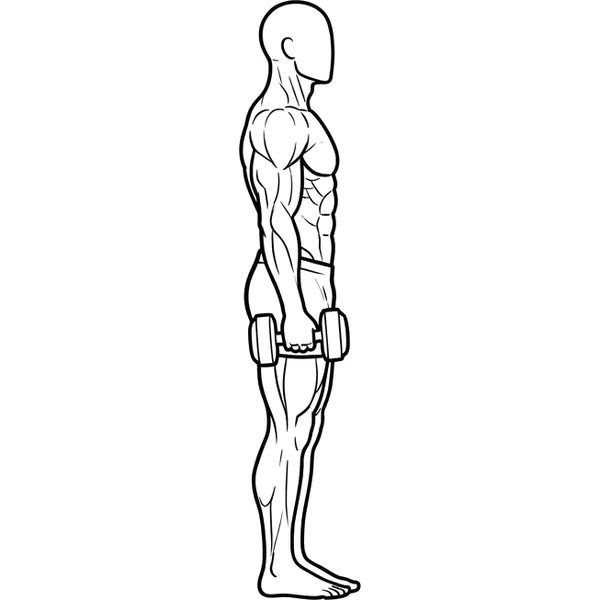
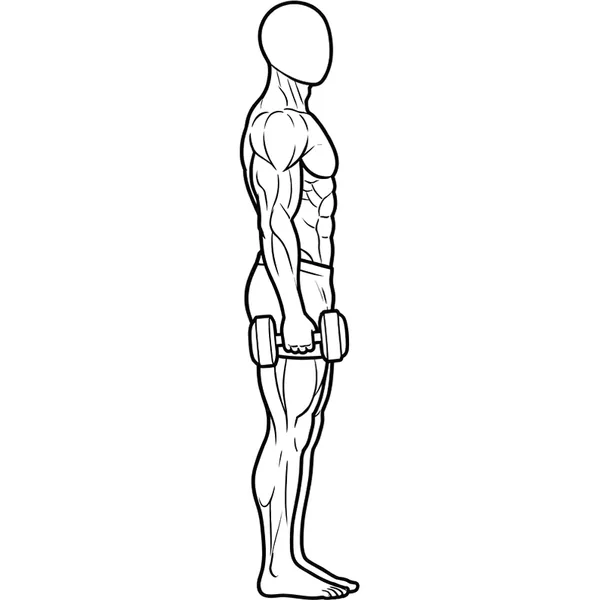
0.60.31: cara lisa en las dos zancadas (ChatGPT)

Changed region(s): [[0.39, 0.03, 0.6, 1.0], [0.48, 0.0, 0.54, 0.03]]

diff --git a/web/sw.js b/web/sw.js
@@ -7,12 +7,12 @@
 // Solo se ocupa del CÓDIGO de la app. Los datos del usuario nunca pasan por
 // aquí: viven en el dispositivo (IndexedDB) y en su Google Drive.
 
-const VERSION = '0.60.30';
+const VERSION = '0.60.31';
 const CACHE = `entreno-${VERSION}`;
 // Las imágenes van en un almacén aparte que NO se borra al actualizar la app:
 // así se ven sin conexión aunque haya salido una versión nueva.
 // Si cambian las imágenes, se sube el número y los móviles bajan las nuevas.
-const CACHE_IMAGENES = 'entreno-imagenes-38';  // el mismo nombre en app.js (guardarImagenesParaSinConexion)
+const CACHE_IMAGENES = 'entreno-imagenes-39';  // el mismo nombre en app.js (guardarImagenesParaSinConexion)
 
 const ARCHIVOS = [
   './',

diff --git a/web/js/app.js b/web/js/app.js
@@ -236,7 +236,7 @@ async function guardarImagenesParaSinConexion() {
     const capas = Object.entries(MUSCULOS).flatMap(([clave, m]) => m.vistas.map((v) => archivoCapa(clave, v)));
     const cuerpo = ['imagenes/musculos/cuerpo-delante.svg', 'imagenes/musculos/cuerpo-detras.svg'];
     // El mismo nombre que CACHE_IMAGENES en sw.js: si no, el service worker lo borra.
-    const cache = await caches.open('entreno-imagenes-38');
+    const cache = await caches.open('entreno-imagenes-39');
     for (const ruta of [...cuerpo, ...capas, ...mios]) {
       if (!(await cache.match(ruta, { ignoreSearch: true }))) {
         const r = await fetch(ruta).catch(() => null);

diff --git a/web/js/version.js b/web/js/version.js
@@ -1,3 +1,3 @@
 // Versión del código de la app. Se sube en cada publicación y debe coincidir
 // con VERSION en sw.js, que es lo que hace que los móviles se actualicen.
-export const VERSION_APP = '0.60.30';
+export const VERSION_APP = '0.60.31';

diff --git a/CLAUDE.md b/CLAUDE.md
@@ -1231,4 +1231,7 @@ fase), tras probar la A.
   sale: Gemini pinta las dos máquinas en espejo y, al darle la vuelta, las dos posturas quedan iguales. Almacén `entreno-imagenes-38`.
 - 0.60.30 (24-10-2026): Diario con días pasados (Dan: «ayer se me olvidó»): flechas ‹ › de día en día, calendario
   (`input type=date`, como mucho hoy) y «Apuntar ayer»; `desplazarDia()` en vistas/diario.js. Sin cambio de esquema.
+- 0.60.31: cara lisa en las dos zancadas con ChatGPT («Edita esta imagen sin redibujarla… cambia SOLO las cabezas»: al
+  contrario que Gemini, conserva el cuerpo). La elíptica tampoco sale con ChatGPT (dibuja las dos posturas iguales):
+  sigue quieta. Almacén `entreno-imagenes-39`.
 

diff --git a/imagenes-ia/cola.md b/imagenes-ia/cola.md
@@ -156,3 +156,4 @@ petición (el pez levantaba la cabeza; la goblet sale «de huevo», que lo decid
       0.60.28: carrera alternando rodillas. 0.60.29: zancadas con el pie quieto, escalera animada, gemelos en multipower
       que suben más. Queda la elíptica (Gemini la pinta en espejo) y la cara lisa de las zancadas (al alisarla les quita
       músculo).
+      0.60.31: zancadas con cara lisa (ChatGPT). La elíptica tampoco sale con ChatGPT: se queda quieta.
